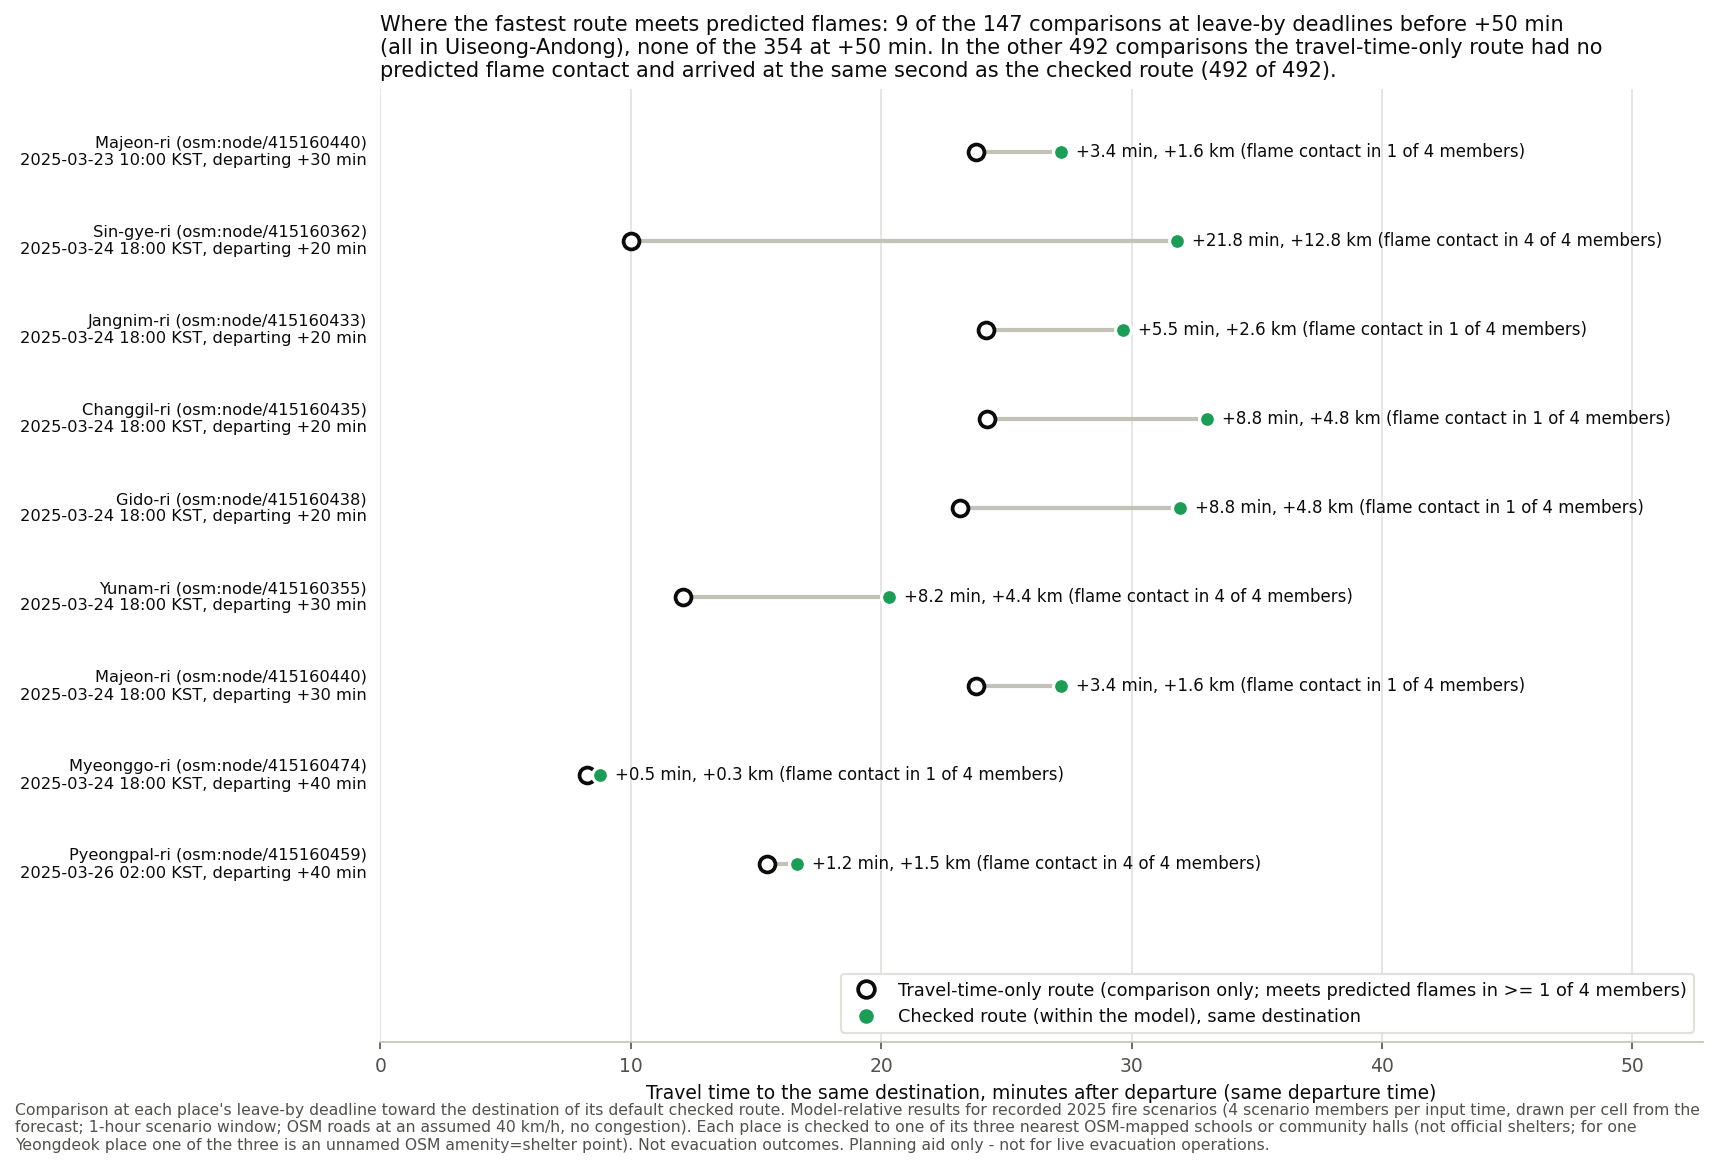
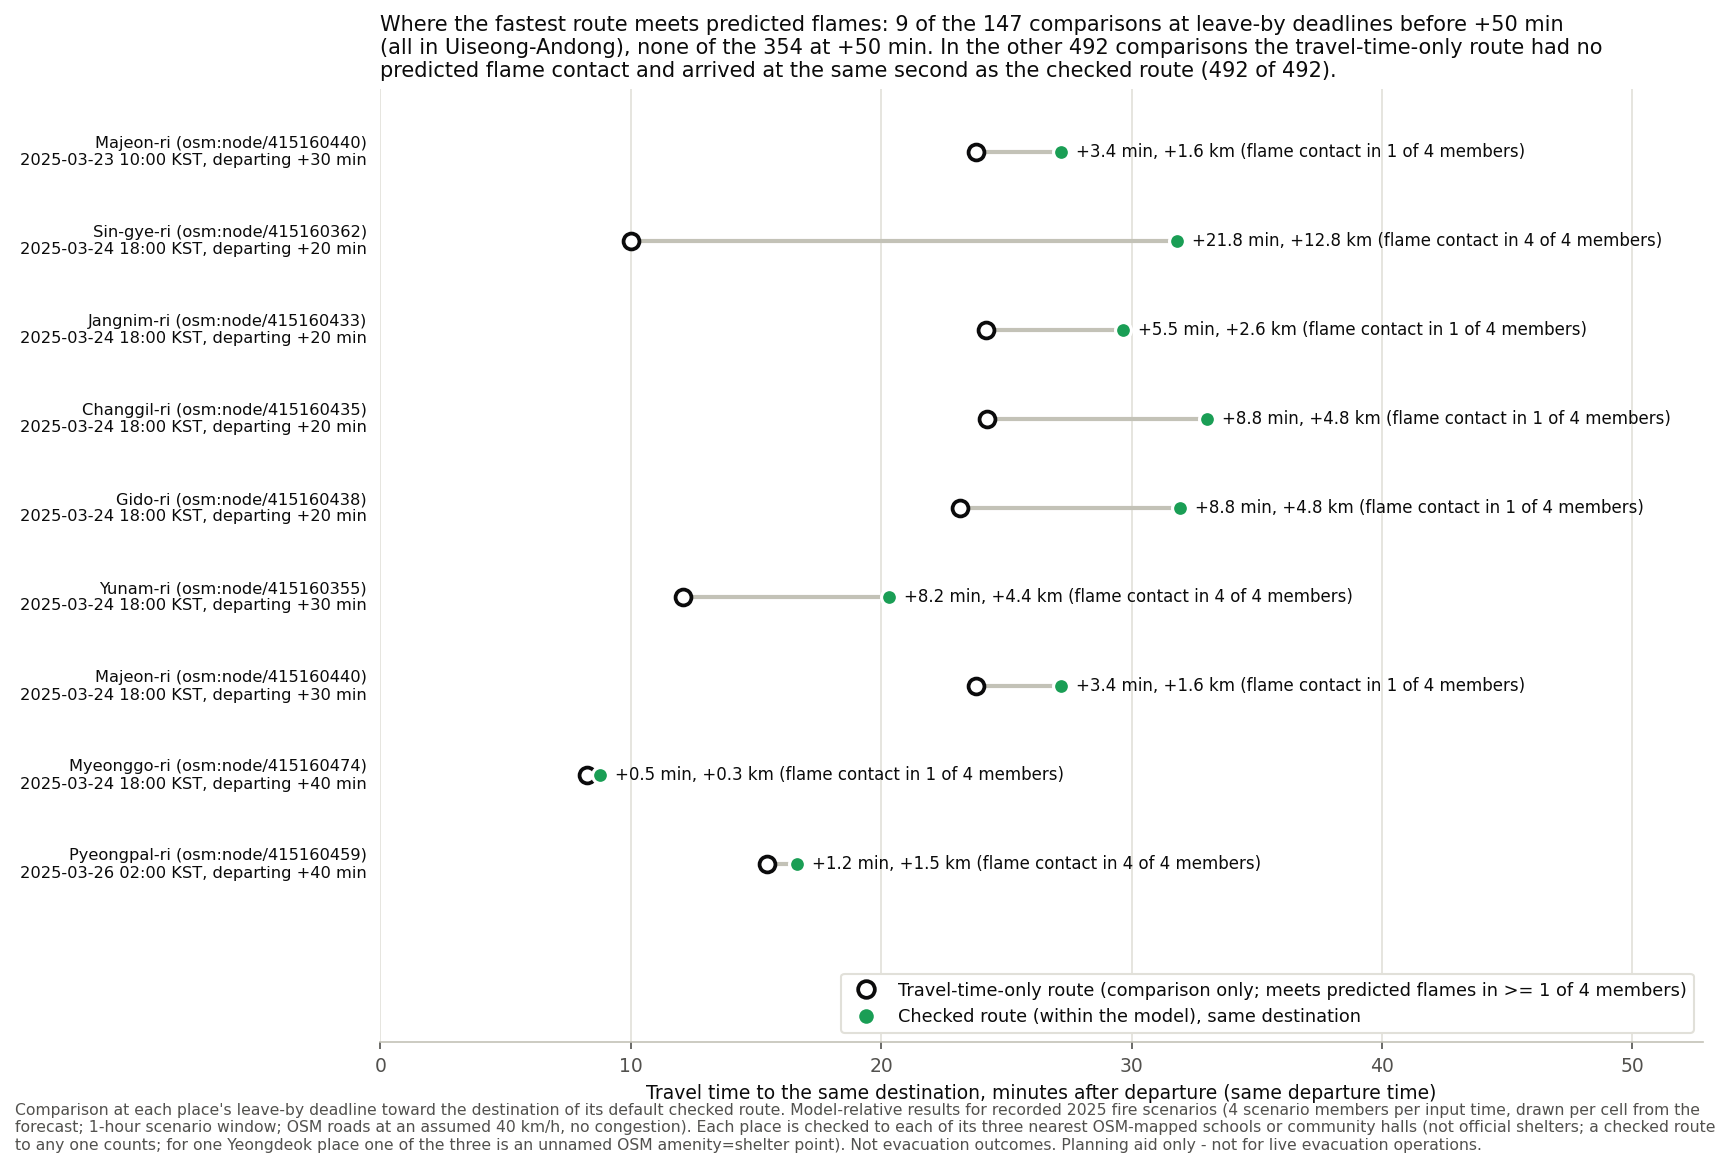
solve2027-impact: round-2 review nits (destination wording, fetch comment, thin slivers)
- S1 and every figure footer: places are checked "to each of its three
  nearest OSM-mapped schools or community halls (not official shelters;
  a checked route to any one counts)", so the text no longer reads as one
  destination per place.
- README Reproduce: tools/fetch_routing_inputs.py provides the road graphs
  and the HAZARD packets; compute.py and sources.py docstrings say the same.
- Fig 1: window-limited slivers of 1-2 cases get one explicit row of
  outlined white dots, since the hatch lattice is coarser than the sliver.
- APPLICATION_SENTENCES.md and figures regenerated; numbers unchanged.

Claude-Session: https://claude.ai/code/session_017vgyRQNGkCnyMozDkP4ibm

diff --git a/research/solve2027-impact/wfg_impact/sentences.py b/research/solve2027-impact/wfg_impact/sentences.py
@@ -9,7 +9,7 @@ window, the 120 s required stay and hence the 8-minute (480 s) trip limit at +50
 recorded inputs, not computed numbers. Wording that depends on a number ("none", "at both", "all in Uiseong-Andong")
 is asserted by tests/test_reproduction.py.
 
-Every sentence names its destination scope: each place is checked to one of its three nearest OSM-mapped schools or
+Every sentence names its destination scope: each place is checked to each of its three nearest OSM-mapped schools or
 community halls, not official shelters (one Yeongdeok place also has an unnamed OSM ``amenity=shelter`` point without
 ``shelter_type`` among its three; DEST_NOTE). Departures that the 1-hour scenario window rules out whatever the fire
 ("window-limited") are never counted as fire effects (numbers.WINDOW_RULE).
@@ -18,7 +18,8 @@ from __future__ import annotations
 
 import re
 
-DEST = 'one of its three nearest OSM-mapped schools or community halls (not official shelters)'
+DEST = ('each of its three nearest OSM-mapped schools or community halls (not official shelters; a checked route to any '
+        'one counts)')
 _HALLS = 'three nearest OSM-mapped schools or community halls'
 DEST_NOTE = ('Destinations: {v:destinations_used.school@all/places} OSM schools and '
              '{v:destinations_used.community_hall@all/places} OSM community halls; for one Yeongdeok place one of '
@@ -31,7 +32,7 @@ SENTENCES = [
         'text': (
             'Using forecasts our model produced retrospectively for the recorded fire conditions of the March 2025 '
             'Uiseong-Andong and Yeongdeok wildfires, our planner checked vehicle departures from '
-            '{v:places@all/places} OpenStreetMap-mapped villages and care facilities, each to ' + DEST + ', against '
+            'each of {v:places@all/places} OpenStreetMap-mapped villages and care facilities to ' + DEST + ', against '
             '4 fire scenarios from the forecast at six departure times 10 minutes apart after each of three forecast '
             'times per region, in {v:attempts@all/pooled} recorded route checks (one per place, forecast time, '
             'candidate destination and departure time).'),

diff --git a/research/solve2027-impact/wfg_impact/figures.py b/research/solve2027-impact/wfg_impact/figures.py
@@ -30,7 +30,8 @@ LABEL = {pr.CHECKED: 'Checked route (within the model)',
          pr.UNRESOLVED: 'Unresolved: cannot judge, never safe'}
 FOOTER = ('Model-relative results for recorded 2025 fire scenarios (4 scenario members per input time, drawn per cell '
           'from the forecast; 1-hour scenario window; OSM roads at an assumed 40 km/h, no congestion). Each place is '
-          'checked to one of its three nearest OSM-mapped schools or community halls (not official shelters; for one '
+          'checked to each of its three nearest OSM-mapped schools or community halls (not official shelters; a checked '
+          'route to any one counts; for one '
           'Yeongdeok place one of the three is an unnamed OSM amenity=shelter point). Not evacuation outcomes. '
           'Planning aid only - not for live evacuation operations.')
 WINDOW_HATCH = '..'
@@ -116,6 +117,10 @@ def fig_checked_share(records, numbers, metas, out_dir: Path, table_dir: Path) -
                 for v, x, window in segments:
                     h = 100.0 * x / n
                     _bar(ax, k, bottom, h, v, 0.68, window=window)
+                    if window and 0 < h < 6:   # a 1-2 case sliver is thinner than the hatch lattice: one row of
+                        # explicit white dots, outlined so they stay visible where they overlap the gap or background
+                        ax.scatter([k - 0.2, k, k + 0.2], [bottom + h / 2] * 3, s=9, facecolor=HATCH_C, edgecolor=INK,
+                                   linewidths=0.5, zorder=4)
                     bottom += h
                 share = 100.0 * c[pr.CHECKED] / n
                 if t in (0, OFFSETS[-1]):

diff --git a/research/solve2027-impact/wfg_impact/sources.py b/research/solve2027-impact/wfg_impact/sources.py
@@ -5,8 +5,10 @@ Inputs (all read-only):
   (schema ``wfg.planner.cache/1``, written by ``planner/scripts/precompute.py`` on the evaluated macOS host);
 * ``planner/public/data/regions/<region>/places.geojson`` (origin types, as the planner tags them);
 * ``data/routing/graphs/<region>/graph.json`` from ``python tools/fetch_routing_inputs.py`` (SHA-verified release
-  archive); only needed for road redundancy and route lengths. Its SHA-256 must equal the ``input_hashes.graph`` that
-  the API recorded in every cached route check, and its ``revision`` must equal the recorded ``graph_id``.
+  archive) for road redundancy, route lengths and fire-free trips. Its SHA-256 must equal the ``input_hashes.graph``
+  that the API recorded in every cached route check, and its ``revision`` must equal the recorded ``graph_id``;
+* ``data/routing/latest_inputs_try02/packets/<region>/<input time>/HAZARD.json`` from the same tool, for the scenario
+  window only (``valid_from``, ``valid_until``, ``dt``); its SHA-256 must equal the recorded ``input_hashes.hazard``.
 
 Every file is verified by SHA-256 before use; a mismatch stops the run.
 """

diff --git a/research/solve2027-impact/compute.py b/research/solve2027-impact/compute.py
@@ -7,7 +7,8 @@ Run from anywhere with the venv described in README.md (Python 3.12, requirement
     python research/solve2027-impact/compute.py --check    # recompute; fail if any committed text output differs
     python research/solve2027-impact/verify.py             # path B: independent recomputation of every number
 
-Needs the SHA-verified road graphs (python tools/fetch_routing_inputs.py) for redundancy and route lengths.
+Needs the SHA-verified road graphs and HAZARD packets (python tools/fetch_routing_inputs.py): graphs for redundancy,
+route lengths and fire-free trips, HAZARD.json for the scenario window (valid_from, valid_until, dt).
 """
 from __future__ import annotations
 

diff --git a/research/solve2027-impact/APPLICATION_SENTENCES.md b/research/solve2027-impact/APPLICATION_SENTENCES.md
@@ -6,7 +6,7 @@ Each sentence and its caution are rendered from [`NUMBERS.json`](NUMBERS.json); 
 
 ## S1
 
-> Using forecasts our model produced retrospectively for the recorded fire conditions of the March 2025 Uiseong-Andong and Yeongdeok wildfires, our planner checked vehicle departures from 174 OpenStreetMap-mapped villages and care facilities, each to one of its three nearest OSM-mapped schools or community halls (not official shelters), against 4 fire scenarios from the forecast at six departure times 10 minutes apart after each of three forecast times per region, in 9,396 recorded route checks (one per place, forecast time, candidate destination and departure time).
+> Using forecasts our model produced retrospectively for the recorded fire conditions of the March 2025 Uiseong-Andong and Yeongdeok wildfires, our planner checked vehicle departures from each of 174 OpenStreetMap-mapped villages and care facilities to each of its three nearest OSM-mapped schools or community halls (not official shelters; a checked route to any one counts), against 4 fire scenarios from the forecast at six departure times 10 minutes apart after each of three forecast times per region, in 9,396 recorded route checks (one per place, forecast time, candidate destination and departure time).
 
 NUMBERS.json keys: `places@all/places`, `attempts@all/pooled`, `destinations_used.school@all/places`, `destinations_used.community_hall@all/places`, `records.route_checks@all/pooled`, `records.dispatch_attempts@all/pooled`, `records.rechecks@all/pooled`, `records.research_route_checks@all/pooled`, `osm_origins_not_checkable@all/places`, `cases@all/pooled`, `destinations_used.shelter@all/places`
 

diff --git a/research/solve2027-impact/README.md b/research/solve2027-impact/README.md
@@ -300,7 +300,7 @@ From the repository root, with Python 3.12:
 python3.12 -m venv .venv
 .venv/bin/python -m pip install -c constraints-routing.txt './integration[packets]'
 .venv/bin/python -m pip install -c constraints-routing.txt -r research/solve2027-impact/requirements.txt
-.venv/bin/python tools/fetch_routing_inputs.py             # SHA-verified road graphs (only needed once)
+.venv/bin/python tools/fetch_routing_inputs.py             # SHA-verified road graphs and HAZARD packets (only needed once)
 .venv/bin/python research/solve2027-impact/compute.py       # path A: NUMBERS.json, tables, figures, generated text
 .venv/bin/python research/solve2027-impact/verify.py        # path B: independent recomputation, exits 1 on mismatch
 .venv/bin/python -m pytest -q research/solve2027-impact/tests
